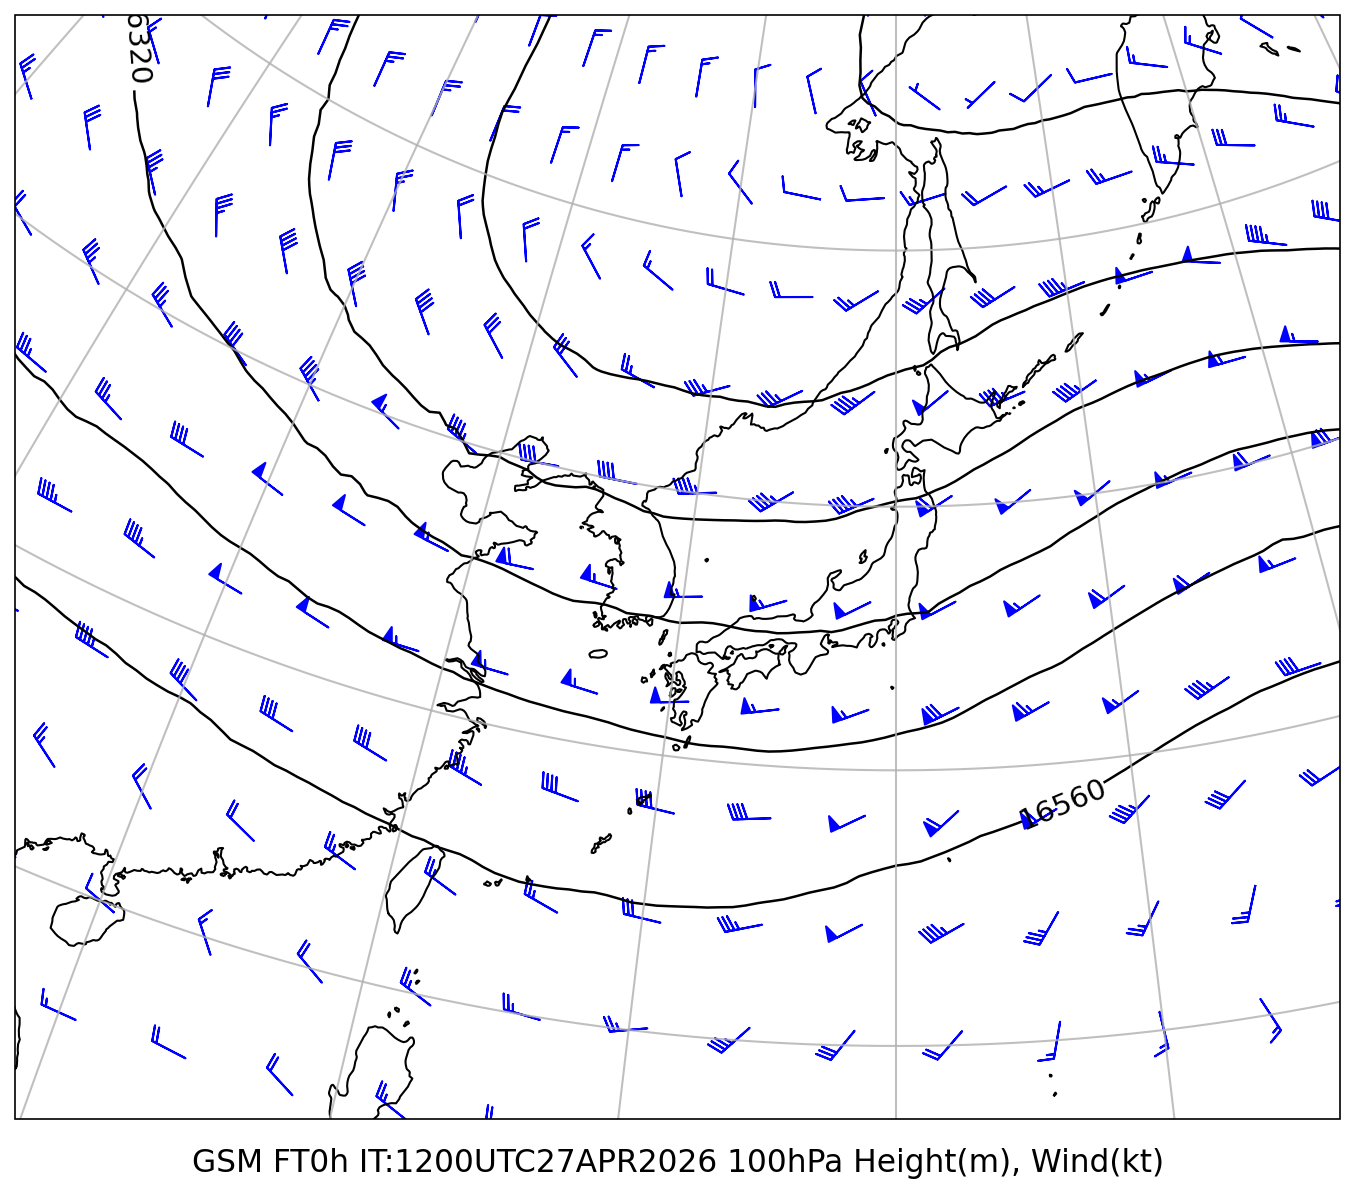
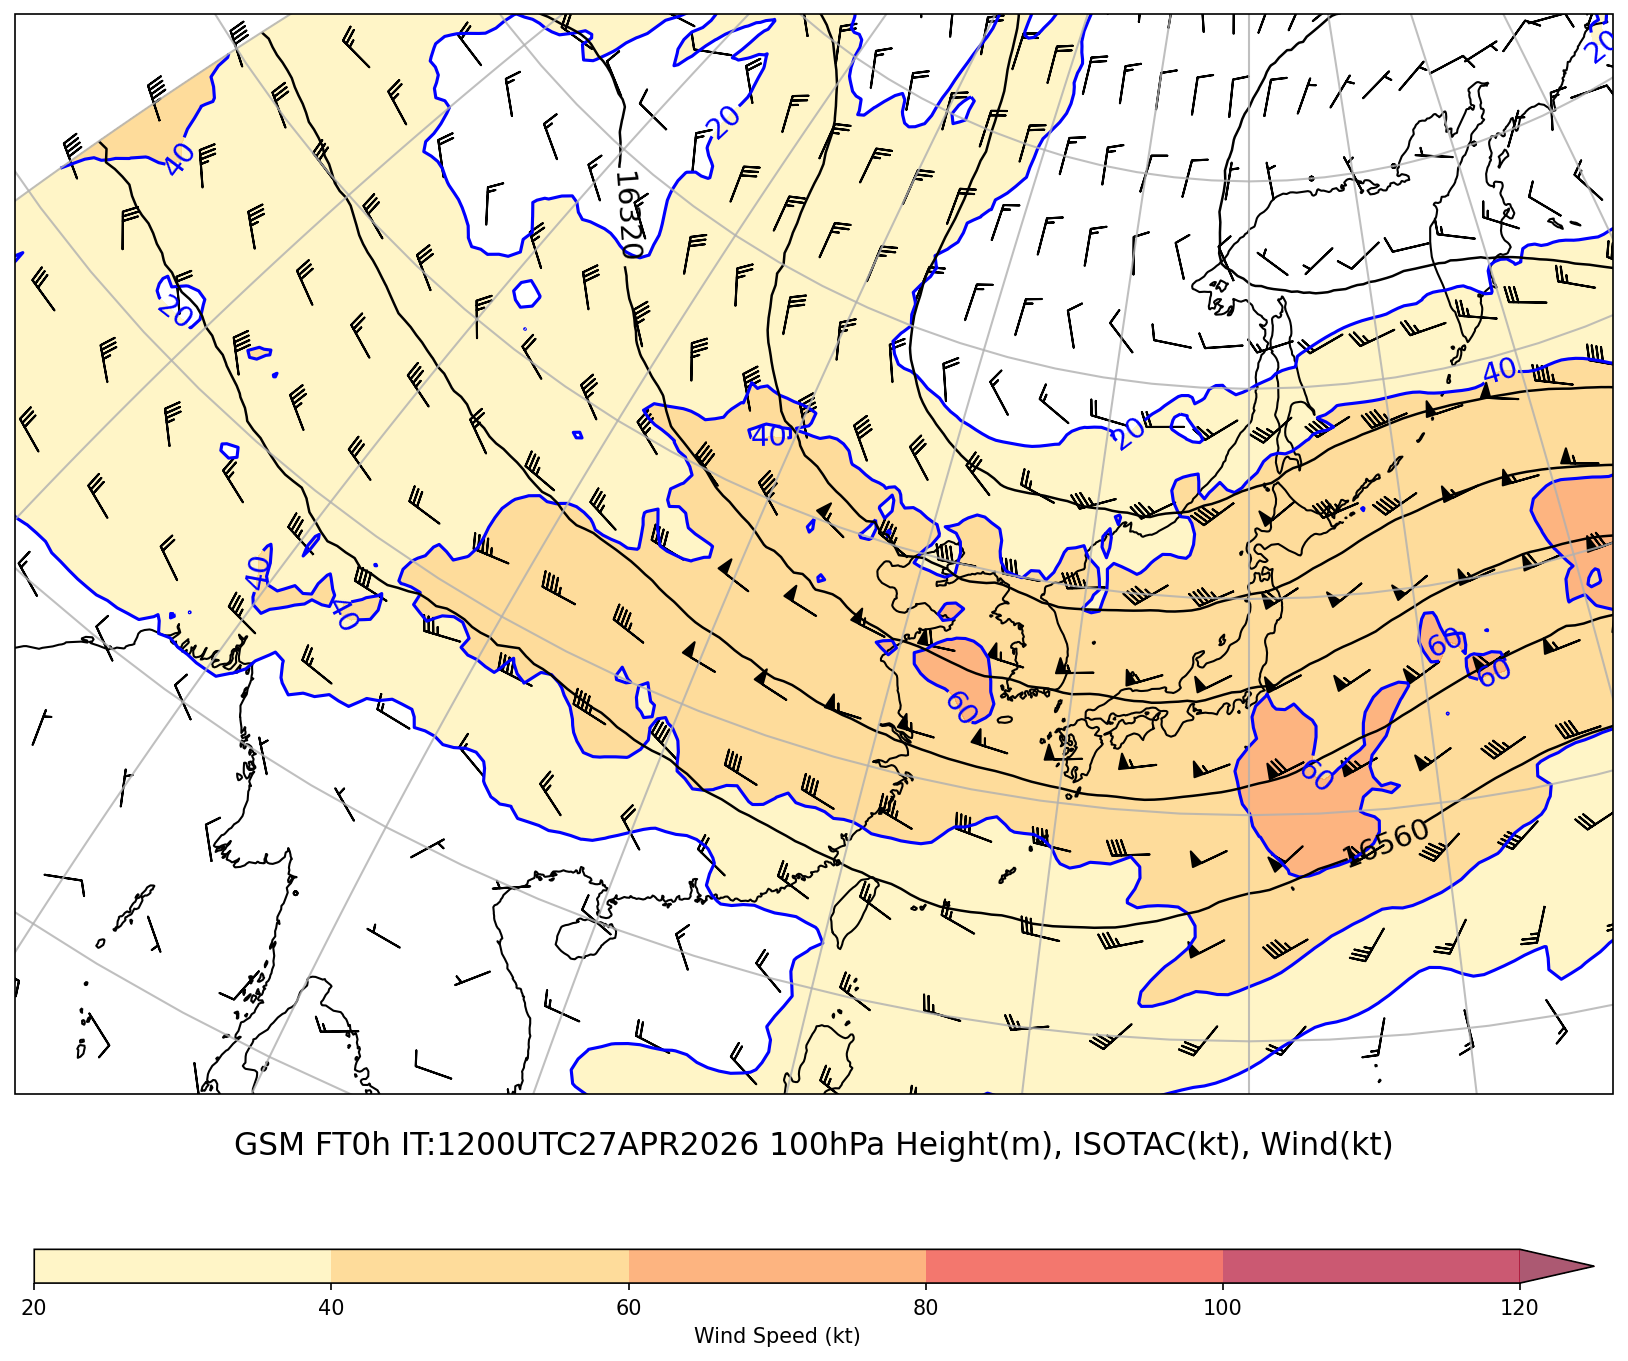
report: 100hPa天気図レポート追加 (2026042712)

diff --git a/reports/2026042712/100hPa_report.md b/reports/2026042712/100hPa_report.md
@@ -9,33 +9,3 @@
 ### FT=0h
 
 ![GSM 100hPa FT=0h](./2026042712_FT000h_GSM_100hPa_Height_Wind.png)
-
-### FT=6h
-
-![GSM 100hPa FT=6h](./2026042712_FT006h_GSM_100hPa_Height_Wind.png)
-
-### FT=12h
-
-![GSM 100hPa FT=12h](./2026042712_FT012h_GSM_100hPa_Height_Wind.png)
-
-### FT=18h
-
-![GSM 100hPa FT=18h](./2026042712_FT018h_GSM_100hPa_Height_Wind.png)
-
-### FT=24h
-
-![GSM 100hPa FT=24h](./2026042712_FT024h_GSM_100hPa_Height_Wind.png)
-
-## ECMWF 100hPa 高度・風矢羽
-
-### FT=6h
-
-![ECM 100hPa FT=6h](./2026042712_FT006h_ECM_100hPa_Height_Wind.png)
-
-### FT=12h
-
-![ECM 100hPa FT=12h](./2026042712_FT012h_ECM_100hPa_Height_Wind.png)
-
-### FT=24h
-
-![ECM 100hPa FT=24h](./2026042712_FT024h_ECM_100hPa_Height_Wind.png)
